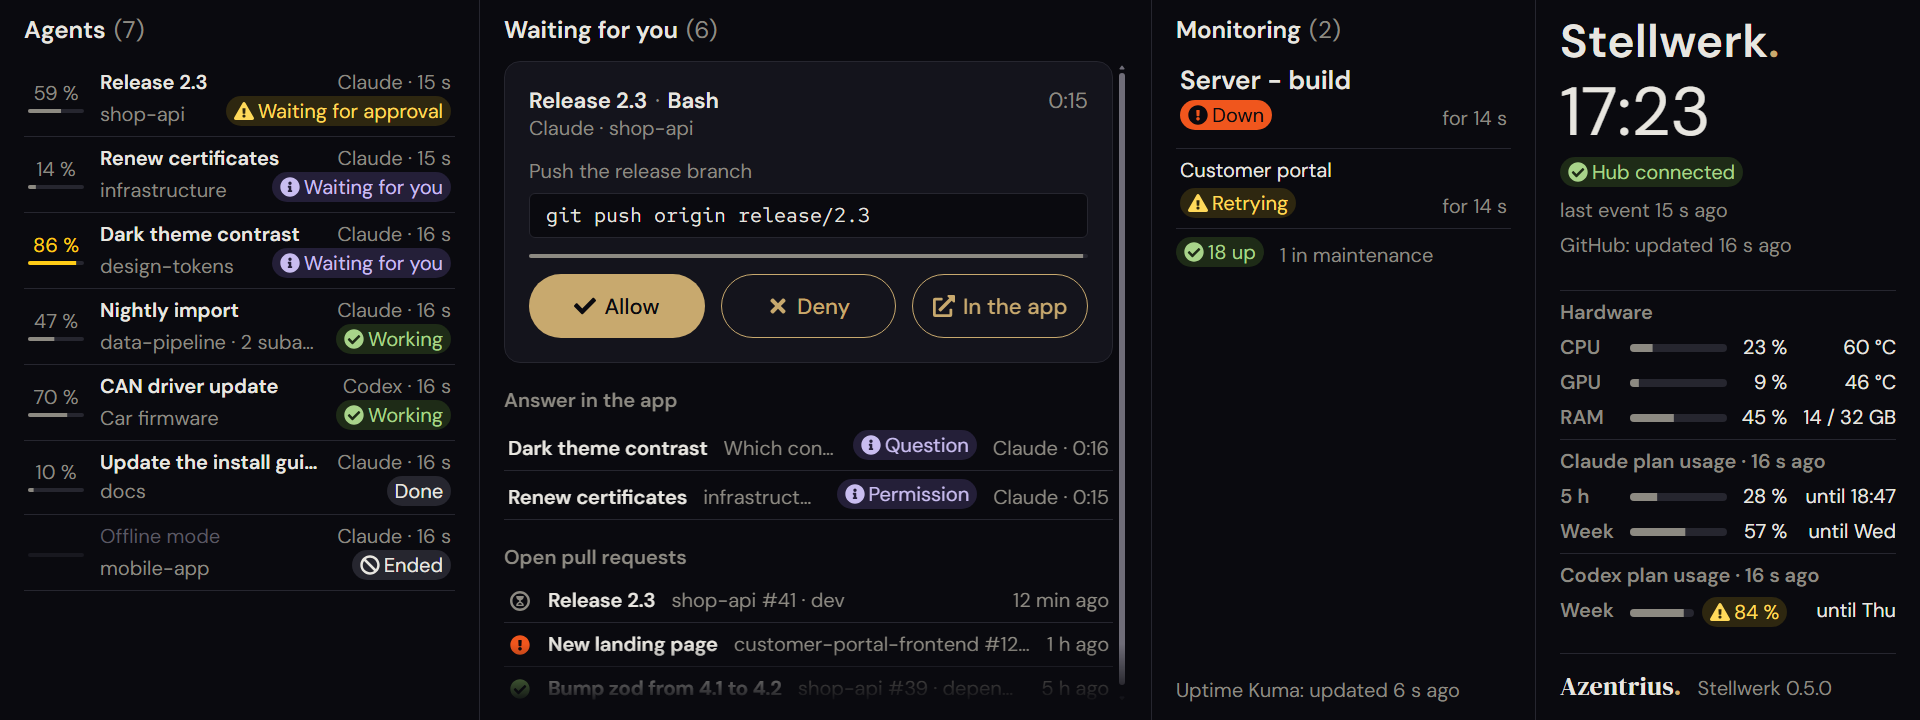
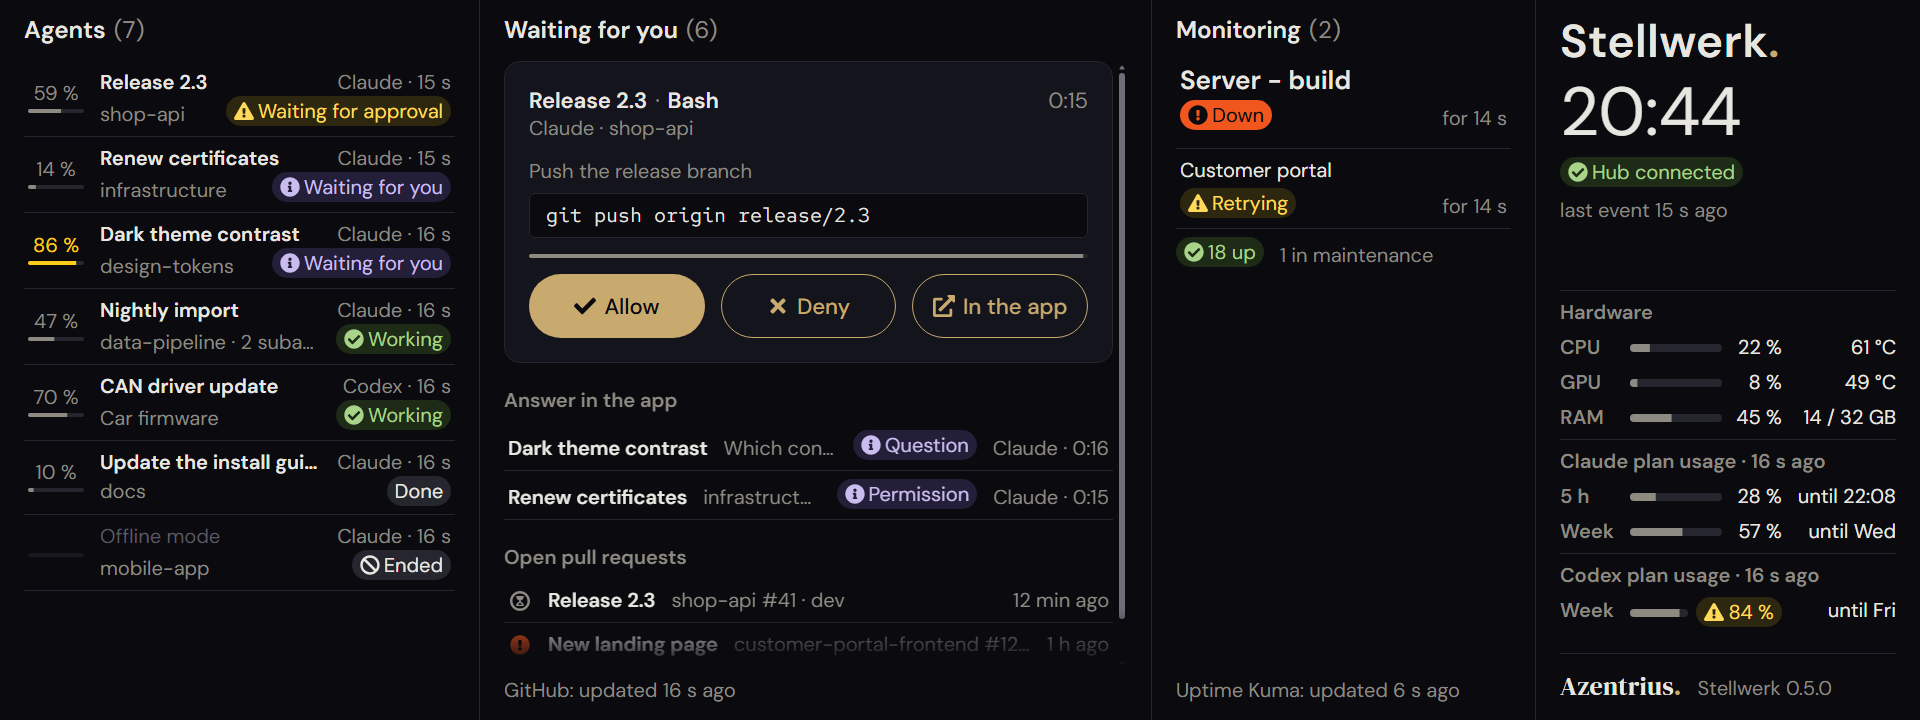
Show GitHub's line at the foot of the waiting column (#32)
When the pull requests were last brought up to date, or what failed and
how to fix it, stood in the status column, far from the list it is
about. It now stands at the foot of the "Waiting for you" column, below
the pull requests, as Uptime Kuma's line does in its column; alerts
there take the same compact form. The status column keeps the hub's own
state.

A test reads the page and checks which column each status line stands
in; the README screenshot is taken again from the demo.

diff --git a/ui/app.css b/ui/app.css
@@ -228,6 +228,8 @@ button { font: inherit; }
 .monitors__ok { display: flex; flex-wrap: wrap; align-items: baseline; gap: var(--sp-xs) var(--sp-md); margin: 0; color: var(--text-subtle); }
 .monitors__ok .az-label { white-space: nowrap; }
 .monitors__state { margin-block-start: auto; color: var(--text-subtle); }
+/* GitHub's line at the foot of its column, below the pull requests, as Uptime Kuma's is in its own. */
+.col--waiting .github-state { flex: none; margin-block-start: var(--sp-sm); }
 
 /* ---------- status column ---------- */
 .col--status { gap: var(--sp-sm); }
@@ -241,10 +243,10 @@ button { font: inherit; }
 .last-event, .github-state, .hardware-state { color: var(--text-subtle); }
 /* An error says what happened and how to fix it (az-alert), in the display's text size; a little tighter
    than usual, so that two of them fit in the narrow column. */
-:is(.col--status, .col--monitors) .az-alert { gap: var(--sp-xs) var(--sp-sm); padding: var(--sp-sm); }
-:is(.col--status, .col--monitors) .az-alert__icon { font-size: 1rem; line-height: 1.35; }
-:is(.col--status, .col--monitors) .az-alert__title { font-size: 1rem; }
-:is(.col--status, .col--monitors) .az-alert code { font-family: var(--font-mono); font-size: 1rem; }
+:is(.col--status, .col--waiting, .col--monitors) .az-alert { gap: var(--sp-xs) var(--sp-sm); padding: var(--sp-sm); }
+:is(.col--status, .col--waiting, .col--monitors) .az-alert__icon { font-size: 1rem; line-height: 1.35; }
+:is(.col--status, .col--waiting, .col--monitors) .az-alert__title { font-size: 1rem; }
+:is(.col--status, .col--waiting, .col--monitors) .az-alert code { font-family: var(--font-mono); font-size: 1rem; }
 
 /* Hardware and the plans' usage at the foot of the status column: label, bar and percent, then a value
    (temperature, memory, when a limit starts again). All rows share one grid, so the bars line up. */

diff --git a/test/layout.test.ts b/test/layout.test.ts
@@ -1,0 +1,28 @@
+// Where the display's status lines stand: each source's line at the foot of the column that shows what it
+// reports, the status column keeps the hub's own state.
+//
+// SPDX-License-Identifier: Apache-2.0
+
+import assert from 'node:assert/strict';
+import fs from 'node:fs';
+import path from 'node:path';
+import { test } from 'node:test';
+
+const page = fs.readFileSync(path.join(import.meta.dirname, '..', 'ui', 'index.html'), 'utf8');
+
+/** The column an element stands in: the last column opened before it. */
+function columnOf(id: string): string {
+  const at = page.indexOf(`id="${id}"`);
+  assert.ok(at >= 0, `#${id} is on the page`);
+  const columns = [...page.slice(0, at).matchAll(/class="col (col--[a-z]+)"/g)];
+  return columns.at(-1)![1]!;
+}
+
+test("GitHub's line stands below the pull requests, Uptime Kuma's below the monitors, the hub's in the status column", () => {
+  assert.equal(columnOf('pulls'), 'col--waiting');
+  assert.equal(columnOf('github-state'), 'col--waiting');
+  assert.ok(page.indexOf('id="github-state"') > page.indexOf('id="waiting-empty"'), 'at the foot of the column');
+  assert.equal(columnOf('monitors-state'), 'col--monitors');
+  assert.equal(columnOf('hub-state'), 'col--status');
+  assert.equal(columnOf('hardware-state'), 'col--status');
+});

diff --git a/ui/index.html b/ui/index.html
@@ -38,6 +38,7 @@
           <span class="az-empty__icon" id="all-clear-icon"></span>
           <p class="az-empty__title" data-text="allClear"></p>
         </div>
+        <div class="github-state" id="github-state" hidden></div>
       </section>
       <section class="col col--monitors" aria-labelledby="monitors-title">
         <div class="monitors" id="monitors" hidden>
@@ -55,7 +56,6 @@
         <p class="clock" id="clock"></p>
         <div class="hub-state" id="hub-state"></div>
         <p class="last-event" id="last-event"></p>
-        <div class="github-state" id="github-state" hidden></div>
         <div class="gauge-sections" id="gauge-sections">
           <section class="gauge-section" id="hardware" aria-labelledby="hardware-title" hidden>
             <h2 class="section-title" id="hardware-title" data-text="hardwareTitle"></h2>

diff --git a/ui/src/states.ts b/ui/src/states.ts
@@ -77,8 +77,8 @@ export function hubState(connected: boolean, texts: Texts, signedIn = true): Sta
 }
 
 /**
- * The GitHub line in the status column: when GitHub was last asked, or what failed and how to fix it. Null
- * without a token.
+ * The GitHub line at the foot of the "waiting for you" column, below the pull requests: when GitHub was
+ * last asked, or what failed and how to fix it. Null without a token.
  */
 export function githubLine(github: GitHubView | null, now: number, texts: Texts): string | Problem | null {
   if (!github) return null;

diff --git a/ui/src/app.ts b/ui/src/app.ts
@@ -215,7 +215,7 @@ function tick(): void {
 
 /**
  * Puts plain text, a state (as a label with its icon) or a problem (as an alert that says how to fix it)
- * into a line of the status column, when it changed.
+ * into a status line (the hub's, GitHub's, the hardware's, Uptime Kuma's), when it changed.
  */
 function show(node: HTMLElement, content: string | State | Problem): void {
   const key = JSON.stringify(content);

diff --git a/CHANGELOG.md b/CHANGELOG.md
@@ -10,6 +10,9 @@ Uptime Kuma's monitors in the third column: what is down stands out, what works 
   quieter below; everything else is only a number ("35 up", "1 in maintenance"). Paused monitors and
   groups are not counted. The column's title counts what fails, its foot says when Uptime Kuma was last
   asked, or what failed and how to fix it.
+- **GitHub's line where its list is:** when the pull requests were last brought up to date, or what
+  failed and how to fix it, now stands at the foot of the "Waiting for you" column, below the pull
+  requests, as Uptime Kuma's line does in its column. The status column keeps the hub's own state.
 - **One more connection, and only that:** every minute the hub asks Uptime Kuma at the address set up
   for `/metrics`, with the key as the password; such a key opens nothing else in Uptime Kuma. The address
   is http or https, a host and a port, nothing else; redirects are not followed; of the answer the hub

diff --git a/README.md b/README.md
@@ -154,8 +154,8 @@ the name a screen reader reads), so repository, number and author have room:
 | grey hourglass: running | runs still going, or waiting for approval |
 | none | no runs |
 
-The status column says when the list was last brought up to date, or why that failed (token rejected,
-no access, not reachable) and how to fix it. The token is never logged and never sent to the display.
+At the foot of the "Waiting for you" column, below the pull requests, the display says when the list was
+last brought up to date, or why that failed (token rejected, no access, not reachable) and how to fix it. The token is never logged and never sent to the display.
 `stellwerk github remove` deletes it; the hub then opens no connection to GitHub.
 
 ## Hardware values
